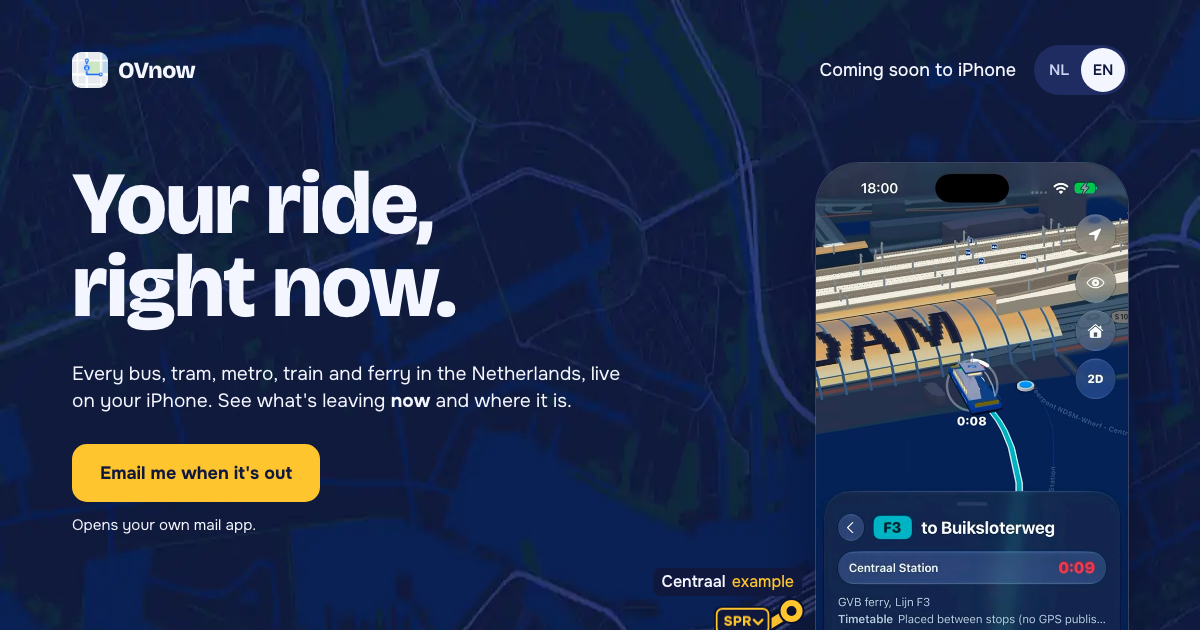
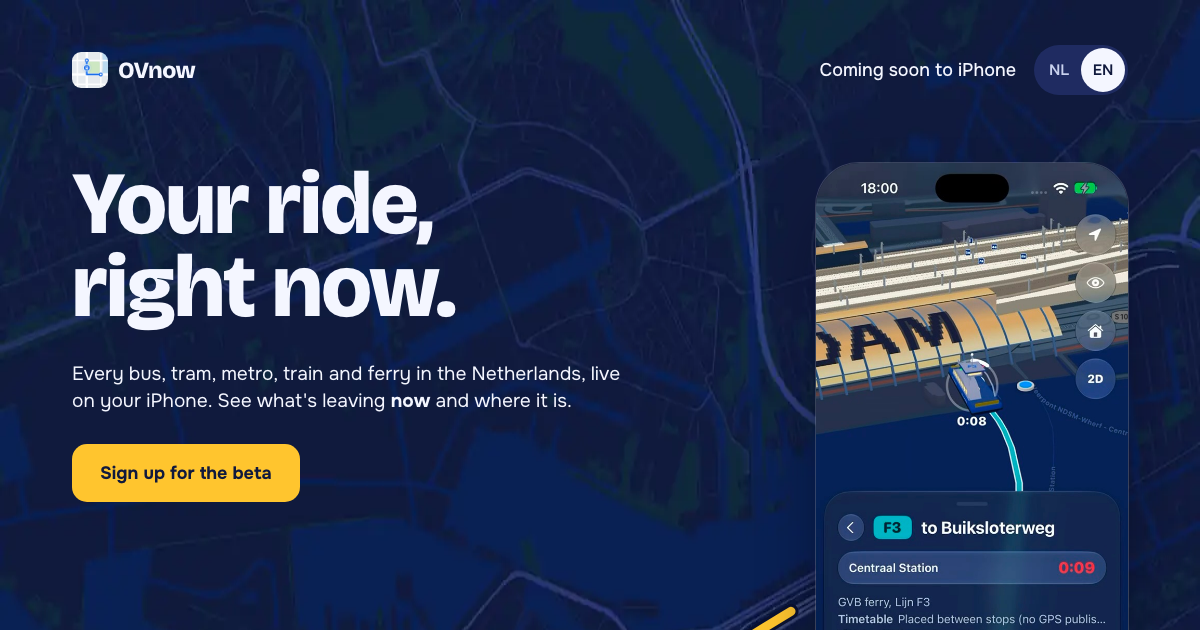
Update the page to match the current app
Puts the map first, rewrites the countdown and go-home copy, replaces
the planner image and old metro clip, explains TestFlight on the form,
and refreshes the share image.

Changed region(s): [[0.0925, 0.6937, 0.2775, 0.8143], [0.555, 0.9048, 0.6783, 1.0], [0.0617, 0.8143, 0.2158, 0.8444]]

diff --git a/index.html b/index.html
@@ -17,7 +17,7 @@
 <meta property="og:url" content="https://ovnow.app">
 <meta property="og:title" content="OVnow: jouw rit, nu">
 <meta property="og:description" content="Elke bus, tram, metro, trein en pont live. Zonder rommel. Gewoon wat je nú nodig hebt.">
-<meta property="og:image" content="https://ovnow.app/img/og.png?v=9">
+<meta property="og:image" content="https://ovnow.app/img/og.png?v=10">
 <meta property="og:image:width" content="1200">
 <meta property="og:image:height" content="630">
 <meta property="og:image:alt" content="OVnow: jouw rit, nu. Elke bus, tram, metro, trein en pont, live.">
@@ -26,7 +26,7 @@
 <meta name="twitter:card" content="summary_large_image">
 <meta name="twitter:title" content="OVnow: jouw rit, nu">
 <meta name="twitter:description" content="Elke bus, tram, metro, trein en pont live. Zonder rommel.">
-<meta name="twitter:image" content="https://ovnow.app/img/og.png?v=9">
+<meta name="twitter:image" content="https://ovnow.app/img/og.png?v=10">
 <script type="application/ld+json">
 {
   "@context": "https://schema.org",
@@ -126,6 +126,7 @@
   .join input:focus{outline:3px solid var(--line);outline-offset:1px;border-color:var(--line)}
   .join .notify{width:100%;padding:0 16px;border:0;font-family:inherit;cursor:pointer}
   .join .notify:disabled{opacity:.7;cursor:wait;transform:none}
+  .joinintro{margin:-6px 0 16px;max-width:30em;font-size:1rem;line-height:1.45}
   .join .wide{grid-column:1/-1}
   #testflight{scroll-margin-top:28px}
   .join .hp{position:absolute;left:-9999px;width:1px;height:1px;overflow:hidden}
@@ -170,7 +171,8 @@
   .one .split{grid-template-columns:minmax(0,1.05fr) minmax(0,1fr)}
 
   .two .split{grid-template-columns:minmax(0,1fr) minmax(0,1.1fr)}
-  .one .phone{width:min(100%,330px);justify-self:center}
+  .one .phone,.two .phone{width:min(100%,330px);justify-self:center}
+  img.phone{height:auto}
   video.phone{height:auto;background:var(--deep)}
   .planc{margin:0 0 28px;width:min(100%,360px);border-radius:30px;overflow:hidden;box-shadow:0 0 0 1px rgba(255,255,255,.16),0 30px 60px -24px rgba(4,8,28,.85)}
   .planc img{width:100%}
@@ -223,7 +225,8 @@
     .sheet{border-radius:26px}
     .board{grid-template-columns:minmax(0,1fr)}
     .one .split,.two .split{grid-template-columns:minmax(0,1fr)}
-    .one .phone{width:var(--ph);order:2}
+    .one .phone,.two .phone{width:var(--ph);order:2}
+    .q.one figure{order:2}
     .three .split{grid-template-columns:minmax(0,1fr)}
     .three .phone{width:var(--ph)}
     .pair{grid-template-columns:minmax(0,1fr);gap:64px}
@@ -302,10 +305,10 @@
 
   <section class="q one">
     <div class="inner split">
-      <video class="phone" muted loop playsinline preload="none" poster="img/poster-metro.jpg" width="600" height="1304" role="img" aria-label="OVnow: metro 50 naar Gein op Amsterdam Zuid met de countdown tot vertrek" data-i18n-aria="a8"><source src="video/metro.mp4" type="video/mp4"></video>
+      <figure><img src="img/shot-vehicles.jpg" alt="" data-i18n-alt="a4" width="900" height="940" loading="lazy"></figure>
       <div class="txt">
-        <h2 data-i18n="f1t">Hoe lang nog?</h2>
-        <p data-i18n="f1p">Een grote countdown, het perron of de steiger, en of je het haalt met je looptijd erbij.</p>
+        <h2 data-i18n="f2t">Waar is hij?</h2>
+        <p data-i18n="f2p">Elke bus, tram, metro, trein en pont live op de kaart. Tik op een lijn en je ziet alleen die.</p>
       </div>
     </div>
   <i data-at="2"></i>
@@ -314,10 +317,10 @@
   <section class="q two" id="two">
     <div class="inner split">
       <div class="txt">
-        <h2 data-i18n="f2t">Waar is hij?</h2>
-        <p data-i18n="f2p">Elke bus, tram, metro, trein en pont live op de kaart. Tik op een lijn en je ziet alleen die.</p>
+        <h2 data-i18n="f1t">Hoe lang nog?</h2>
+        <p data-i18n="f1p">Bovenaan staat wat het eerst vertrekt, met het perron of de steiger en de tijd die je nog hebt.</p>
       </div>
-      <figure><img src="img/shot-vehicles.jpg" alt="" data-i18n-alt="a4" width="900" height="940" loading="lazy"></figure>
+      <img class="phone" src="img/shot-map.jpg" alt="" data-i18n-alt="a8" width="600" height="1304" loading="lazy">
     </div>
   </section>
 
@@ -345,9 +348,9 @@
   <section>
     <div class="inner pair">
       <div>
-        <figure class="planc"><img src="img/shot-plan.jpg" alt="" data-i18n-alt="a5" width="760" height="939" loading="lazy"></figure>
+        <figure class="planc"><img src="img/shot-plan.jpg" alt="" data-i18n-alt="a5" width="760" height="841" loading="lazy"></figure>
         <div class="txt"><h3 data-i18n="f4t">Of gewoon naar huis</h3>
-        <p data-i18n="f4p">Plan je reis, of tik één keer op Breng me naar huis.</p></div>
+        <p data-i18n="f4p">Plan je reis, of tik op Thuis. Ook met Siri of via het Bedieningspaneel.</p></div>
       </div>
       <div>
         <img class="widget" src="img/shot-widget.jpg" alt="" data-i18n-alt="a6" width="480" height="225" loading="lazy">
@@ -372,6 +375,7 @@
       <h2 data-i18n="endTitle">Bijna op je iPhone.</h2>
       <div class="cta" id="testflight">
         <h3 class="joinh" data-i18n="joinTitle">Test OVnow via TestFlight</h3>
+        <p class="joinintro" data-i18n="joinIntro">TestFlight is de app van Apple om nieuwe apps uit te proberen. Je uitnodiging komt op het e-mailadres van je Apple ID.</p>
         <form class="join" action="https://92-5-225-92.sslip.io/signup" method="POST" data-goatcounter-click="testflight-end">
           <label><span data-i18n="joinFirst">Voornaam</span><input name="first" type="text" autocomplete="given-name" required></label>
           <label><span data-i18n="joinLast">Achternaam</span><input name="last" type="text" autocomplete="family-name" required></label>
@@ -401,7 +405,7 @@ const T = {
   en: {
     title: "Your ride,<br>right now.", soon: "Coming soon", soon2: "to iPhone",
     lede: "Every bus, tram, metro, train and ferry in the Netherlands, live on your iPhone. See what's leaving <strong>now</strong> and where it is.",
-    joinTitle: "Test OVnow with TestFlight", betaButton: "Sign up for the beta", joinFirst: "First name", joinLast: "Last name", joinEmail: "Email (linked to your Apple ID)", joinModel: "iPhone model", joinSend: "Sign me up", joinBusy: "Sending…", joinNote: "Only for your TestFlight invite.", joinDone: "You're on the list. Your invite will come by email.", joinFail: 'That didn\'t work. Try again, or email <a href="mailto:mail@ovnow.app">mail@ovnow.app</a>.',
+    joinTitle: "Test OVnow with TestFlight", betaButton: "Sign up for the beta", joinIntro: "TestFlight is Apple's app for trying out new apps. Your invite goes to the email address of your Apple ID.", pageTitle: "OVnow: your ride, right now", joinFirst: "First name", joinLast: "Last name", joinEmail: "Email (linked to your Apple ID)", joinModel: "iPhone model", joinSend: "Sign me up", joinBusy: "Sending…", joinNote: "Only for your TestFlight invite.", joinDone: "You're on the list. Your invite will come by email.", joinFail: 'That didn\'t work. Try again, or email <a href="mailto:mail@ovnow.app">mail@ovnow.app</a>.',
     liveTitle: "The Sprinter, now", statusLive: "live", statusTimetable: "timetable", statusQuiet: "quiet", statusExample: "example",
     proofExample: "This is an example of the line, not real trips.", exampleTitle: "The Sprinter", ride: "Centraal to Hoofddorp, about",
     track: "Platform", leaves: "Leaves in", first: "First Sprinter at", toHfd: "To Hoofddorp", now: "now", then: "Then",
@@ -410,28 +414,28 @@ const T = {
     proofTimetable: "Showing the timetable for now. Live data will be back shortly.",
     railsAria: "The Sprinter between Amsterdam Centraal and Hoofddorp, with every train where it is now",
     night: "No more Sprinters tonight.", late: "min late",
-    f1t: "How long?", f1p: "A big countdown, the platform or pier, and whether you'll make it with your walk included.",
+    f1t: "How long?", f1p: "The next departure sits at the top, with the platform or pier and the time you\'ve got.",
     f2t: "Where is it?", f2p: "Every bus, tram, metro, train and ferry live on the map. Tap a line to see only that one.",
     f3dt: "Amsterdam in 3D", f3dp: "In Amsterdam, stations, metros, trams and ferries appear in 3D on the map. Watch them arrive and leave again.",
     f3t: "On the way", f3p: "Press Go and your journey follows along on your Lock Screen: when to leave and where to change, without opening your phone.",
-    f4t: "Or just go home", f4p: "Plan a journey, or tap once on Get me home.",
+    f4t: "Or just go home", f4p: "Plan your trip, or tap Home. Also works with Siri or Control Center.",
     f5t: "Your daily route", f5p: "Every tram, metro, bus, train or ferry in one list. On your Home Screen too.",
     f7t: "No clutter", f7p: "No account needed. Your location is only used to find stops and routes, and is never stored. Your favourites stay on your iPhone.",
     endTitle: "Nearly on your iPhone.",
-    a1: "OVnow: the F3 ferry leaves in 4:24 from pier D", a2: "OVnow night map: Sprinter 8285 to Hoofddorp has just left Amsterdam Centraal", a4: "OVnow 3D map of Amsterdam Centraal with trains at the platforms and two F3 ferries", a7: "OVnow: the F3 ferry leaves pier D at Amsterdam Centraal", a8: "OVnow: metro 50 to Gein at Amsterdam Zuid with the countdown to departure", a9: "OVnow: a 3D tram running near Paleisstraat in Amsterdam", a5: "OVnow planner with the Get me home button and favourites", a6: "OVnow widget with the next tram from Centraal Station to Leidseplein",
+    a1: "OVnow: the F3 ferry leaves in 4:24 from pier D", a2: "OVnow night map: Sprinter 8285 to Hoofddorp has just left Amsterdam Centraal", a4: "OVnow 3D map of Amsterdam Centraal with trains at the platforms and two F3 ferries", a7: "OVnow: the F3 ferry leaves pier D at Amsterdam Centraal", a8: "OVnow map with the next ferry and the departures at Centraal Station", a9: "OVnow: a 3D tram running near Paleisstraat in Amsterdam", a5: "OVnow planner with Home and other favourites", a6: "OVnow widget with the next tram from Centraal Station to Leidseplein",
     a3: "Lock Screen with an OVnow journey: walk to Centraal Station, tram 2 leaves 22:50 from platform B2",
     privLink: "Privacy", made: "Made by", contact: "Questions or feedback?",
     sources: 'Live data from <a href="https://ndovloket.nl">NDOV Loket</a> and <a href="https://ovapi.nl">OVapi</a>. Journey planner by <a href="https://transitous.org">Transitous</a>, map, tracks and walking paths © <a href="https://www.openstreetmap.org/copyright">OpenStreetMap</a> contributors.'
   },
   nl: {
-    joinTitle: "Test OVnow via TestFlight", betaButton: "Meld je aan voor de bèta", joinFirst: "Voornaam", joinLast: "Achternaam", joinEmail: "E-mailadres (gekoppeld aan je Apple ID)", joinModel: "iPhone-model", joinSend: "Meld me aan", joinBusy: "Even geduld…", joinNote: "Alleen voor je TestFlight-uitnodiging.", joinDone: "Je staat op de lijst. Je uitnodiging komt per mail.", joinFail: 'Dat lukte niet. Probeer het nog eens, of mail naar <a href="mailto:mail@ovnow.app">mail@ovnow.app</a>.',
+    joinTitle: "Test OVnow via TestFlight", betaButton: "Meld je aan voor de bèta", joinIntro: "TestFlight is de app van Apple om nieuwe apps uit te proberen. Je uitnodiging komt op het e-mailadres van je Apple ID.", pageTitle: "OVnow: jouw rit, nu", joinFirst: "Voornaam", joinLast: "Achternaam", joinEmail: "E-mailadres (gekoppeld aan je Apple ID)", joinModel: "iPhone-model", joinSend: "Meld me aan", joinBusy: "Even geduld…", joinNote: "Alleen voor je TestFlight-uitnodiging.", joinDone: "Je staat op de lijst. Je uitnodiging komt per mail.", joinFail: 'Dat lukte niet. Probeer het nog eens, of mail naar <a href="mailto:mail@ovnow.app">mail@ovnow.app</a>.',
     statusLive: "live", statusTimetable: "dienstregeling", statusQuiet: "rustig", statusExample: "voorbeeld",
     proofExample: "Dit is een voorbeeld van de lijn, geen echte ritten.", exampleTitle: "De Sprinter", ride: "Van Centraal naar Hoofddorp, ongeveer", first: "Eerste Sprinter om", now: "nu", then: "Daarna",
     proof: "Vanaf Amsterdam Centraal. Echte treinen, live.",
     proofQuiet: "Op dit stuk rijdt nu even geen Sprinter.",
     proofTimetable: "Even volgens de dienstregeling. De live data komt zo terug.",
     night: "Vannacht geen Sprinters meer.", late: "min later",
-    a1: "OVnow: de F3-pont vertrekt over 4:24 van steiger D", a2: "OVnow-nachtkaart: Sprinter 8285 naar Hoofddorp is net vertrokken van Amsterdam Centraal", a4: "OVnow 3D-kaart van Amsterdam Centraal met treinen aan de perrons en twee F3-ponten", a7: "OVnow: de F3-pont vertrekt van steiger D bij Amsterdam Centraal", a8: "OVnow: metro 50 naar Gein op Amsterdam Zuid met de countdown tot vertrek", a9: "OVnow: een 3D-tram rijdt bij Paleisstraat in Amsterdam", a5: "OVnow-reisplanner met de knop Breng me naar huis en favorieten", a6: "OVnow-widget met de volgende tram van Centraal Station naar Leidseplein",
+    a1: "OVnow: de F3-pont vertrekt over 4:24 van steiger D", a2: "OVnow-nachtkaart: Sprinter 8285 naar Hoofddorp is net vertrokken van Amsterdam Centraal", a4: "OVnow 3D-kaart van Amsterdam Centraal met treinen aan de perrons en twee F3-ponten", a7: "OVnow: de F3-pont vertrekt van steiger D bij Amsterdam Centraal", a8: "OVnow-kaart met de eerstvolgende pont en de vertrekken bij Centraal Station", a9: "OVnow: een 3D-tram rijdt bij Paleisstraat in Amsterdam", a5: "OVnow-reisplanner met Thuis en andere favorieten", a6: "OVnow-widget met de volgende tram van Centraal Station naar Leidseplein",
     a3: "Toegangsscherm met een OVnow-reis: loop naar Centraal Station, tram 2 vertrekt 22:50 van perron B2"
   }
 };
@@ -444,6 +448,7 @@ let lang = "nl";
 function setLang(l) {
   lang = l;
   document.documentElement.lang = l;
+  document.title = T[l].pageTitle;
   document.querySelectorAll("[data-i18n]").forEach(e => { if (T[l][e.dataset.i18n]) e.textContent = T[l][e.dataset.i18n]; });
   document.querySelectorAll("[data-i18n-html]").forEach(e => { if (T[l][e.dataset.i18nHtml]) e.innerHTML = T[l][e.dataset.i18nHtml]; });
   document.querySelectorAll("[data-i18n-alt]").forEach(e => { e.alt = T[l][e.dataset.i18nAlt] || ""; });
@@ -455,7 +460,12 @@ function setLang(l) {
 document.querySelectorAll(".langs button").forEach(b => b.addEventListener("click", () => setLang(b.dataset.lang)));
 
 // ---- TestFlight sign-up, sent to the OVnow inbox ----
-document.querySelector("[data-beta]").addEventListener("click", () => document.querySelector(".join input").focus({preventScroll: true}));
+document.querySelector("[data-beta]").addEventListener("click", e => {
+  e.preventDefault();
+  history.pushState(null, "", "#testflight");
+  document.getElementById("testflight").scrollIntoView();
+  document.querySelector(".join input").focus({preventScroll: true});   // inside the tap, so an iPhone opens the keyboard
+});
 document.querySelectorAll(".join").forEach(form => form.addEventListener("submit", async e => {
   e.preventDefault();
   const send = form.querySelector("button"), state = form.querySelector(".state");
